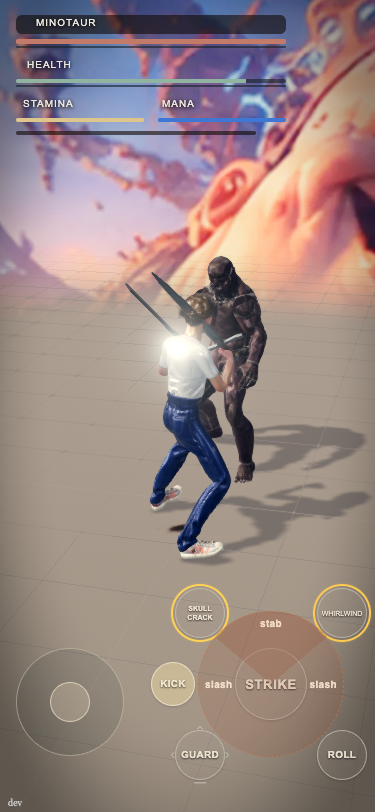
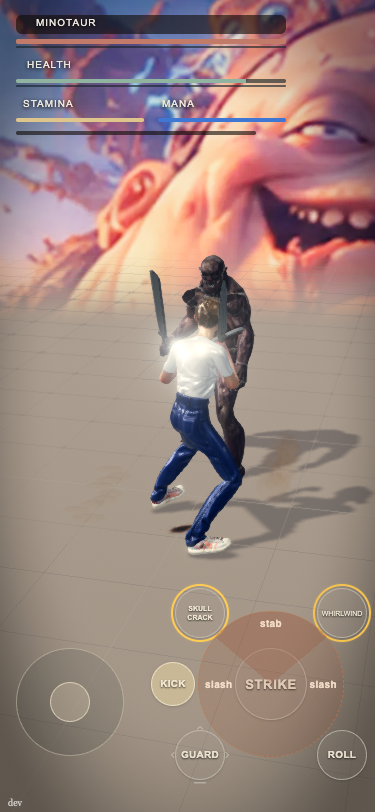
fx: sky alien: follow the folded heading and ease by the shortest way, so lapping never builds an offset (alien at most (1 - yawFollow) x 180 degrees off)

diff --git a/src/fight/skyline.ts b/src/fight/skyline.ts
@@ -31,8 +31,8 @@ export function skyFollowOn(search: string, row: SkylineRow = SKYLINE): boolean 
 const TAU = Math.PI * 2;
 /** The camera's heading as a rotation about the vertical (0 = looking down -Z, the turn Object3D.rotation.y makes), from its world direction. */
 export function headingOf(dirX: number, dirZ: number): number { return Math.atan2(-dirX, -dirZ); }
-/** Carries a running (unwrapped) yaw on to a new heading by the shortest turn from the last, so the follow never jumps at +-pi. */
-export function unwrapYaw(running: number, heading: number): number { return heading + TAU * Math.round((running - heading) / TAU); }
+/** An angle difference folded into -pi..pi: the shortest way round (the strip is a cylinder, so a whole turn is the same picture). */
+export function shortestTurn(delta: number): number { return delta - TAU * Math.round(delta / TAU); }
 /** The strip's turn about the vertical for an unwrapped camera yaw: the row's fixed yaw, plus `followOffsetDegrees` (the follow only: it puts the alien ahead), plus `yawFollow` x the camera's. */
 export function stripYaw(row: SkylineRow, cameraYaw: number): number { return THREE.MathUtils.degToRad(row.yawDegrees + row.followOffsetDegrees) + row.yawFollow * cameraYaw; }
 
@@ -69,7 +69,7 @@ export function createSkyline(
   mesh.visible = false;
   scene.add(mesh);
   const follow = skyFollowOn(search, row), dir = new THREE.Vector3();
-  let running = 0, started = false, target = 0, turn = THREE.MathUtils.degToRad(row.yawDegrees);   // running = the camera's unwrapped yaw; turn = the strip's, eased toward target
+  let started = false, target = 0, turn = THREE.MathUtils.degToRad(row.yawDegrees);   // turn = the strip's yaw, eased toward target by the shortest way (so winding never builds up: the alien is at most (1 - yawFollow) x 180 degrees off)
   let state: Skyline['state'] = 'idle', opacity = 0, texture: THREE.Texture | undefined, disposed = false;
   afterFirstFrame()
     .then(() => { state = 'loading'; return new Promise<void>((done) => setTimeout(done, row.loadAfterFirstFrameMs)); })
@@ -91,14 +91,13 @@ export function createSkyline(
       camera.getWorldDirection(dir);
       if (Math.hypot(dir.x, dir.z) < 1e-4) return;   // looking straight up or down: no heading, keep the last
       const h = headingOf(dir.x, dir.z);
-      running = started ? unwrapYaw(running, h) : h;
-      if (!started) { started = true; turn = stripYaw(row, running); }   // the first frame starts on target: no spin-up
-      target = stripYaw(row, running);
+      target = stripYaw(row, h);   // the camera's heading folded into -pi..pi: the offset from the view never grows with how many times he has turned
+      if (!started) { started = true; turn = target; }   // the first frame starts on target: no spin-up
     },
     get yaw() { return turn; },
     update(camera, dt) {
       if (follow) {
-        turn += (target - turn) * (row.yawFollowSeconds > 0 ? 1 - Math.exp(-dt / row.yawFollowSeconds) : 1);   // a slow ease: the far backdrop drifts after the turn
+        turn += shortestTurn(target - turn) * (row.yawFollowSeconds > 0 ? 1 - Math.exp(-dt / row.yawFollowSeconds) : 1);   // a slow ease: the far backdrop drifts after the turn
         mesh.rotation.y = turn;
       }
       mesh.position.set(camera.x, camera.y + centreOffsetY(row, view), camera.z);
